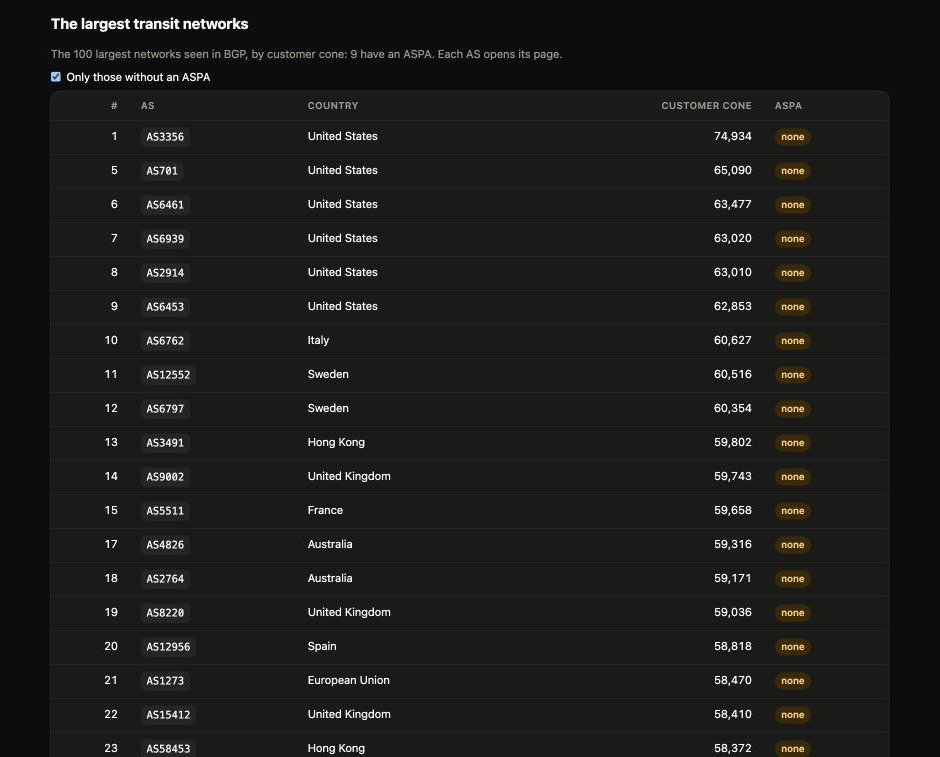
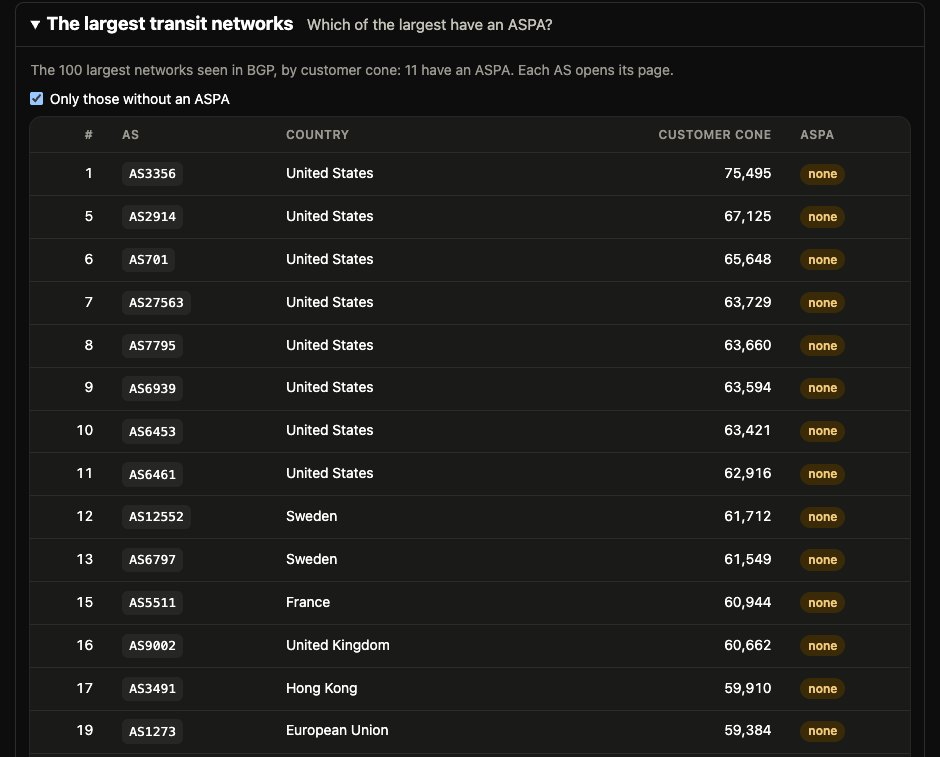
Screenshots of the other 28 sections as they are in 1.75.6, with the texts that describe them

diff --git a/README.md b/README.md
@@ -47,7 +47,7 @@
   </tr>
   <tr>
     <td width="50%"><img src="assets/screenshots/pathcheck-dark.jpg" alt="Checking the AS path 3356 1299 680: the verdict and the hop-by-hop table"></td>
-    <td width="50%"><img src="assets/screenshots/routes-dark.jpg" alt="The routes seen in BGP for AS3333: its prefixes checked against the ROAs (two invalid, longer than the ROA allows), then the distinct AS paths checked against the ASPAs"></td>
+    <td width="50%"><img src="assets/screenshots/routes-dark.jpg" alt="The routes seen in BGP for AS3333: its seven prefixes checked against the ROAs (all valid), then the distinct AS paths checked against the ASPAs"></td>
   </tr>
   <tr>
     <td align="center"><sub>AS path check: verdict and hop-by-hop reasons</sub></td>
@@ -55,14 +55,14 @@
   </tr>
   <tr>
     <td width="50%"><img src="assets/screenshots/quality-dark.jpg" alt="The ASPA quality section: errors, warnings and notes, with the ASPAs of each check"></td>
-    <td width="50%"><img src="assets/screenshots/share-light.jpg" alt="Share and follow: links to the page, feed and JSON of an AS, the form to be notified by e-mail or webhook, and the badge with the Markdown and HTML to paste"></td>
+    <td width="50%"><img src="assets/screenshots/share-light.jpg" alt="Share and follow: links to the page, feed and JSON of an AS, and the form to be notified by e-mail or webhook"></td>
   </tr>
   <tr>
     <td align="center"><sub>ASPA quality: what looks wrong in the ASPAs</sub></td>
     <td align="center"><sub>Share and follow: feed, notifications, badge, API</sub></td>
   </tr>
   <tr>
-    <td width="50%"><img src="assets/screenshots/adoption-dark.jpg" alt="The adoption page: the largest transit networks without an ASPA, with their customer cone and country"></td>
+    <td width="50%"><img src="assets/screenshots/adoption-dark.jpg" alt="The Adoption page: the largest transit networks without an ASPA, with their customer cone and country"></td>
     <td width="50%"><img src="assets/screenshots/examples-light.jpg" alt="The examples page: a checker that reviews a list of providers and compares it with the published ASPA"><br><img src="assets/screenshots/status-light.jpg" alt="The status page: each part of the service with its state and the time of its last update"></td>
   </tr>
   <tr>
@@ -73,7 +73,7 @@
     <td colspan="2" align="center"><img src="assets/screenshots/neighbours-dark.jpg" width="60%" alt="The neighbours of AS41327 in the routes seen in BGP, after the button that reads the registry: which are confirmed as providers by its IRR object and CAIDA, and which are not listed in its ASPA and are declared as peers"><br><sub>Neighbours of an origin, read against its IRR object and CAIDA: confirmed, probably missing, or declared as something else</sub></td>
   </tr>
   <tr>
-    <td colspan="2" align="center"><img src="assets/screenshots/valley-why-dark.jpg" width="60%" alt="The table of valleys seen now for AS41327, with the why? button opened on one place: the reading says possibly a gap in an ASPA, who to ask, and the hops with what the ASPAs, the IRR objects and CAIDA say"><br><sub>Valleys seen now: <i>why?</i> reads the registry, CAIDA and RIPEstat for the hops the ASPAs refuse</sub></td>
+    <td colspan="2" align="center"><img src="assets/screenshots/valley-why-dark.jpg" width="60%" alt="The table of valleys seen now for AS41327, with the why? button opened on one place: the reading says that an exchange-point AS is in the valley, and the hops with what the ASPAs, the IRR objects and CAIDA say"><br><sub>Valleys seen now: <i>why?</i> reads the registry, CAIDA and RIPEstat for the hops the ASPAs refuse</sub></td>
   </tr>
   <tr>
     <td width="50%"><img src="assets/screenshots/graph-dark.jpg" alt="The neighbourhood graph of AS12779: the providers of its ASPA above, the ASes that name it below, and on the right the neighbours that the routes show, with AS60798 marked as a likely provider"></td>
@@ -100,13 +100,13 @@
     <td align="center"><sub>Compare two dates for an AS</sub></td>
   </tr>
   <tr>
-    <td colspan="2" align="center"><img src="assets/screenshots/rtr-dark.jpg" width="70%" alt="The validator as a router sees it: the session, the last sync, the VRPs and ASPAs over RTR, the syncs and the anomalies, and the table of the four caches side by side: Routinator and Fort of the site, Level66 and Cloudflare"></td>
+    <td colspan="2" align="center"><img src="assets/screenshots/rtr-dark.jpg" width="70%" alt="The validator as a router sees it: the session, the last sync, the VRPs and ASPAs over RTR, the syncs and the anomalies, and the table of the six caches side by side: Routinator and Fort of the site, Level66, DaKnObNET in Zurich and in Amsterdam, and Cloudflare"></td>
   </tr>
   <tr>
     <td colspan="2" align="center"><sub>The validator as a router sees it, with the caches side by side</sub></td>
   </tr>
   <tr>
-    <td colspan="2" align="center"><img src="assets/screenshots/collectors-dark.jpg" width="70%" alt="Collectors compared: a bar for each of the 33 collectors of RIPE RIS and RouteViews with the places of valley it sees, and the same places told apart by who sees them"></td>
+    <td colspan="2" align="center"><img src="assets/screenshots/collectors-dark.jpg" width="70%" alt="Collectors compared: a bar for each of the 33 collectors of RIPE RIS and RouteViews with the places of valley it sees"></td>
   </tr>
   <tr>
     <td colspan="2" align="center"><sub>The collectors compared, and RIPE RIS against RouteViews on the same places</sub></td>
@@ -137,7 +137,7 @@
   </tr>
   <tr>
     <td width="50%"><img src="assets/screenshots/report-dark.jpg" alt="A shared result: the summary, the table of paths and the note that the report is unverified"></td>
-    <td width="50%"><img src="assets/screenshots/peek-light.jpg" alt="The quick look at AS3356: no ASPA, named as a provider by 196 ASPAs, seen in BGP"></td>
+    <td width="50%"><img src="assets/screenshots/peek-light.jpg" alt="The quick look at AS3356: no ASPA, named as a provider by 229 ASPAs, seen in BGP"></td>
   </tr>
   <tr>
     <td align="center"><sub>A shared result, at a link of its own</sub></td>
@@ -150,13 +150,13 @@
     <td colspan="2" align="center"><sub>Availability by month and the alerts on the status page</sub></td>
   </tr>
   <tr>
-    <td colspan="2" align="center"><img src="assets/screenshots/tromboning-dark.jpg" width="60%" alt="Tromboning of AS41327: the reading first (no trombone seen, one probe not where it is said to be), then a row for each probe of Globalping and RIPE Atlas in Italy with the networks on the way and the round trip"></td>
+    <td colspan="2" align="center"><img src="assets/screenshots/tromboning-dark.jpg" width="60%" alt="Tromboning of AS41327: the reading first (no trombone seen, and the probes whose place could be checked are where they are said to be), then a row for each probe of Globalping and RIPE Atlas in Italy with the networks on the way and the round trip"></td>
   </tr>
   <tr>
     <td colspan="2" align="center"><sub>Tromboning, measured: probes of Globalping and RIPE Atlas in the country, each checked for its place, the reading first</sub></td>
   </tr>
   <tr>
-    <td colspan="2" align="center"><img src="assets/screenshots/tromboning-pair-dark.jpg" width="70%" alt="Tromboning of AS41327 over IPv4 and IPv6 on the same probes: the reading of each family first (no trombone seen), the comparison of the two and a row for each probe"></td>
+    <td colspan="2" align="center"><img src="assets/screenshots/tromboning-pair-dark.jpg" width="70%" alt="Tromboning of AS41327 over IPv4 and IPv6 on the same probes: the reading of each family first (no trombone seen), the comparison of the two, a probe that is not where it is said to be and a row for each probe"></td>
   </tr>
   <tr>
     <td colspan="2" align="center"><sub>Tromboning, IPv4 and IPv6 on the same probes: the reading of each family first, the comparison after</sub></td>
